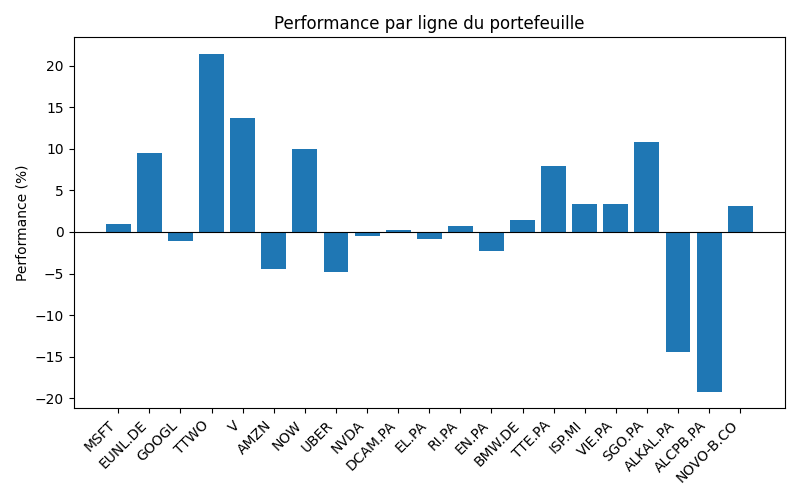
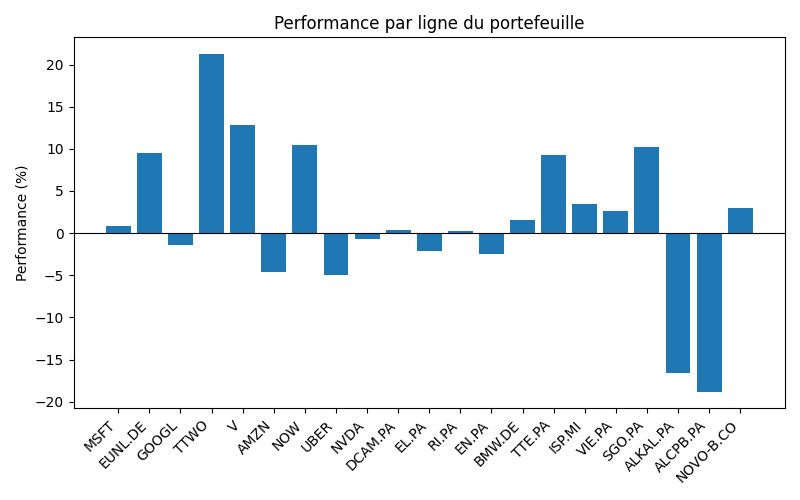
Ajout de la génération d'une page HTML pour visualiser les résultats

diff --git a/rapport.html b/rapport.html
@@ -1,0 +1,211 @@
+
+    <!DOCTYPE html>
+    <html lang="fr">
+    <head>
+        <meta charset="UTF-8">
+        <title>Portfolio Tracker</title>
+        <style>
+            body { font-family: Arial, sans-serif; margin: 40px; background-color: #f5f5f5; }
+            h1 { color: #222; }
+            table { border-collapse: collapse; width: 100%; background: white; }
+            th, td { border: 1px solid #ddd; padding: 8px 12px; text-align: right; }
+            th { background-color: #333; color: white; text-align: center; }
+            td:first-child, td:nth-child(2), td:nth-child(3) { text-align: left; }
+            .resume { margin-top: 20px; font-size: 1.1em; }
+        </style>
+    </head>
+    <body>
+        <h1>Portfolio Tracker</h1>
+        <p>Dernière mise à jour : 29/07/2026 à 11h14</p>
+
+        <table border="1" class="dataframe">
+  <thead>
+    <tr style="text-align: right;">
+      <th>ticker</th>
+      <th>nom</th>
+      <th>compte</th>
+      <th>valeur_ligne</th>
+      <th>performance_pct</th>
+      <th>plus_moins_value_eur</th>
+    </tr>
+  </thead>
+  <tbody>
+    <tr>
+      <td>MSFT</td>
+      <td>Microsoft</td>
+      <td>CTO</td>
+      <td>276.068785</td>
+      <td><span style="color:green">0.9%</span></td>
+      <td>2.47</td>
+    </tr>
+    <tr>
+      <td>EUNL.DE</td>
+      <td>Core MSCI World US</td>
+      <td>CTO</td>
+      <td>271.868458</td>
+      <td><span style="color:green">9.52%</span></td>
+      <td>23.64</td>
+    </tr>
+    <tr>
+      <td>GOOGL</td>
+      <td>Alphabet</td>
+      <td>CTO</td>
+      <td>240.066310</td>
+      <td><span style="color:red">-1.43%</span></td>
+      <td>-3.47</td>
+    </tr>
+    <tr>
+      <td>TTWO</td>
+      <td>Take-Two</td>
+      <td>CTO</td>
+      <td>218.236325</td>
+      <td><span style="color:green">21.23%</span></td>
+      <td>38.22</td>
+    </tr>
+    <tr>
+      <td>V</td>
+      <td>Visa</td>
+      <td>CTO</td>
+      <td>215.478313</td>
+      <td><span style="color:green">12.82%</span></td>
+      <td>24.49</td>
+    </tr>
+    <tr>
+      <td>AMZN</td>
+      <td>Amazon</td>
+      <td>CTO</td>
+      <td>202.533491</td>
+      <td><span style="color:red">-4.58%</span></td>
+      <td>-9.73</td>
+    </tr>
+    <tr>
+      <td>NOW</td>
+      <td>ServiceNow</td>
+      <td>CTO</td>
+      <td>186.718301</td>
+      <td><span style="color:green">10.48%</span></td>
+      <td>17.71</td>
+    </tr>
+    <tr>
+      <td>UBER</td>
+      <td>Uber</td>
+      <td>CTO</td>
+      <td>61.784532</td>
+      <td><span style="color:red">-4.95%</span></td>
+      <td>-3.22</td>
+    </tr>
+    <tr>
+      <td>NVDA</td>
+      <td>Nvidia</td>
+      <td>CTO</td>
+      <td>50.122695</td>
+      <td><span style="color:red">-0.66%</span></td>
+      <td>-0.33</td>
+    </tr>
+    <tr>
+      <td>DCAM.PA</td>
+      <td>PEA Monde MSCI World</td>
+      <td>PEA</td>
+      <td>571.802017</td>
+      <td><span style="color:green">0.38%</span></td>
+      <td>2.16</td>
+    </tr>
+    <tr>
+      <td>EL.PA</td>
+      <td>EssilorLuxottica</td>
+      <td>PEA</td>
+      <td>332.799988</td>
+      <td><span style="color:red">-2.15%</span></td>
+      <td>-7.30</td>
+    </tr>
+    <tr>
+      <td>RI.PA</td>
+      <td>Pernod Ricard</td>
+      <td>PEA</td>
+      <td>202.200005</td>
+      <td><span style="color:green">0.21%</span></td>
+      <td>0.42</td>
+    </tr>
+    <tr>
+      <td>EN.PA</td>
+      <td>Bouygues</td>
+      <td>PEA</td>
+      <td>185.839996</td>
+      <td><span style="color:red">-2.44%</span></td>
+      <td>-4.64</td>
+    </tr>
+    <tr>
+      <td>BMW.DE</td>
+      <td>BMW</td>
+      <td>PEA</td>
+      <td>178.799995</td>
+      <td><span style="color:green">1.52%</span></td>
+      <td>2.67</td>
+    </tr>
+    <tr>
+      <td>TTE.PA</td>
+      <td>TotalEnergies</td>
+      <td>PEA</td>
+      <td>149.479996</td>
+      <td><span style="color:green">9.32%</span></td>
+      <td>12.74</td>
+    </tr>
+    <tr>
+      <td>ISP.MI</td>
+      <td>Intesa Sanpaolo</td>
+      <td>PEA</td>
+      <td>110.329996</td>
+      <td><span style="color:green">3.51%</span></td>
+      <td>3.74</td>
+    </tr>
+    <tr>
+      <td>VIE.PA</td>
+      <td>Veolia</td>
+      <td>PEA</td>
+      <td>106.230000</td>
+      <td><span style="color:green">2.61%</span></td>
+      <td>2.70</td>
+    </tr>
+    <tr>
+      <td>SGO.PA</td>
+      <td>Saint-Gobain</td>
+      <td>PEA</td>
+      <td>76.120003</td>
+      <td><span style="color:green">10.19%</span></td>
+      <td>7.04</td>
+    </tr>
+    <tr>
+      <td>ALKAL.PA</td>
+      <td>Kalray</td>
+      <td>PEA</td>
+      <td>67.600002</td>
+      <td><span style="color:red">-16.54%</span></td>
+      <td>-13.40</td>
+    </tr>
+    <tr>
+      <td>ALCPB.PA</td>
+      <td>Capital B</td>
+      <td>PEA</td>
+      <td>11.672500</td>
+      <td><span style="color:red">-18.8%</span></td>
+      <td>-2.70</td>
+    </tr>
+    <tr>
+      <td>NOVO-B.CO</td>
+      <td>Novo Nordisk</td>
+      <td>PEA</td>
+      <td>134.293018</td>
+      <td><span style="color:green">2.93%</span></td>
+      <td>3.82</td>
+    </tr>
+  </tbody>
+</table>
+
+        <div class="resume">
+            <p><strong>Valeur totale du portefeuille :</strong> 3850.04 €</p>
+            <p><strong>CTO :</strong> 1722.88 €</p>
+            <p><strong>PEA :</strong> 2127.17 €</p>
+        </div>
+    </body>
+    </html>
+    

diff --git a/tracker.py b/tracker.py
@@ -52,6 +52,54 @@ def exporter_csv(portefeuille):
     portefeuille.to_csv(nom_fichier, index=False)
     return nom_fichier
 
+def generer_html(portefeuille, valeur_totale, repartition):
+    """Génère une page HTML affichant les résultats du tracker."""
+
+    def couleur_performance(valeur):
+        couleur = "green" if valeur >= 0 else "red"
+        return f'<span style="color:{couleur}">{valeur}%</span>'
+
+    tableau_html = portefeuille[["ticker", "nom", "compte", "valeur_ligne", "performance_pct", "plus_moins_value_eur"]].copy()
+    tableau_html["performance_pct"] = tableau_html["performance_pct"].apply(couleur_performance)
+
+    lignes_html = tableau_html.to_html(escape=False, index=False)
+    date_generation = datetime.now().strftime("%d/%m/%Y à %Hh%M")
+
+    contenu_html = f"""
+    <!DOCTYPE html>
+    <html lang="fr">
+    <head>
+        <meta charset="UTF-8">
+        <title>Portfolio Tracker</title>
+        <style>
+            body {{ font-family: Arial, sans-serif; margin: 40px; background-color: #f5f5f5; }}
+            h1 {{ color: #222; }}
+            table {{ border-collapse: collapse; width: 100%; background: white; }}
+            th, td {{ border: 1px solid #ddd; padding: 8px 12px; text-align: right; }}
+            th {{ background-color: #333; color: white; text-align: center; }}
+            td:first-child, td:nth-child(2), td:nth-child(3) {{ text-align: left; }}
+            .resume {{ margin-top: 20px; font-size: 1.1em; }}
+        </style>
+    </head>
+    <body>
+        <h1>Portfolio Tracker</h1>
+        <p>Dernière mise à jour : {date_generation}</p>
+
+        {lignes_html}
+
+        <div class="resume">
+            <p><strong>Valeur totale du portefeuille :</strong> {round(valeur_totale, 2)} €</p>
+            <p><strong>CTO :</strong> {round(repartition.get('CTO', 0), 2)} €</p>
+            <p><strong>PEA :</strong> {round(repartition.get('PEA', 0), 2)} €</p>
+        </div>
+    </body>
+    </html>
+    """
+
+    with open("rapport.html", "w", encoding="utf-8") as fichier:
+        fichier.write(contenu_html)
+
+    print("Page HTML générée : rapport.html")
 
 # --- Programme principal ---
 
@@ -81,6 +129,8 @@ print("Valeur totale du portefeuille :", round(valeur_totale, 2), "€")
 repartition = portefeuille.groupby("compte")["valeur_ligne"].sum()
 print()
 print(repartition)
+
+generer_html(portefeuille, valeur_totale, repartition)
 
 nom_export = exporter_csv(portefeuille)
 print()
